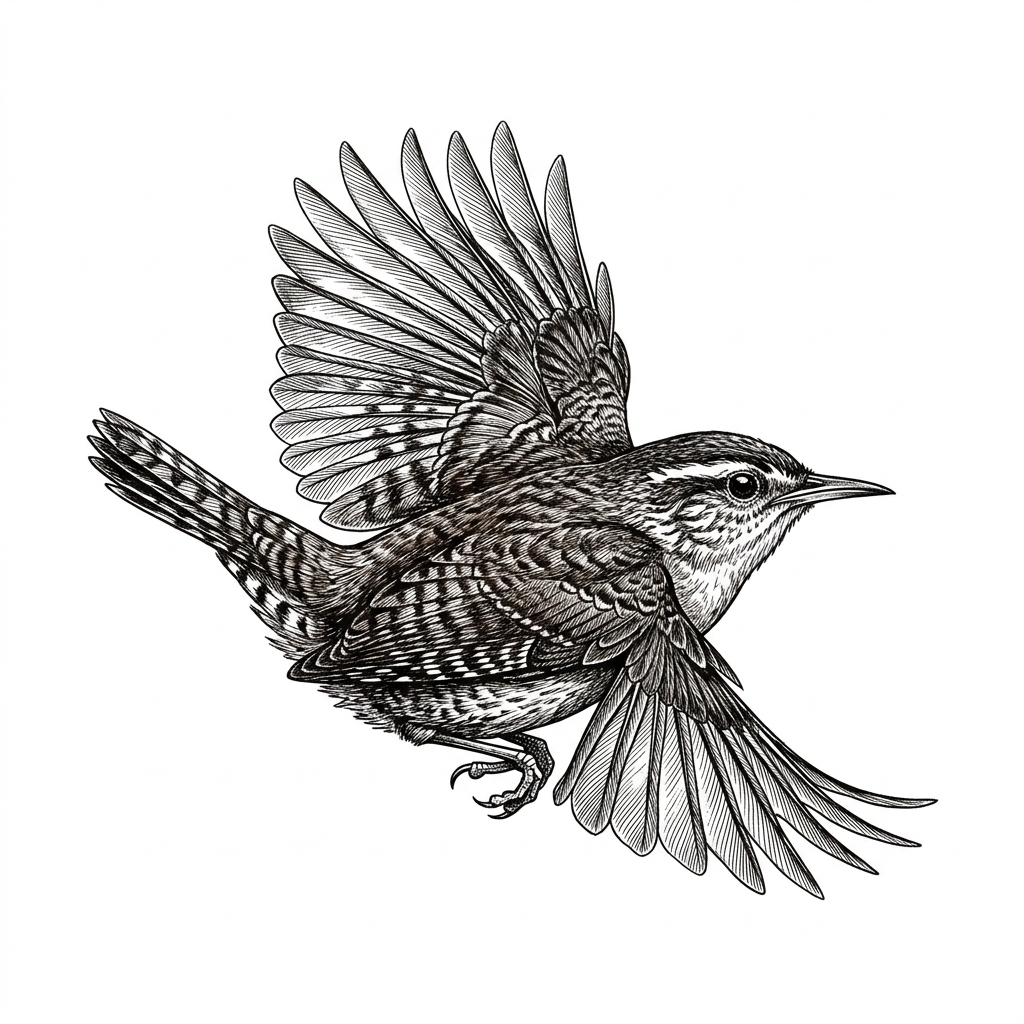
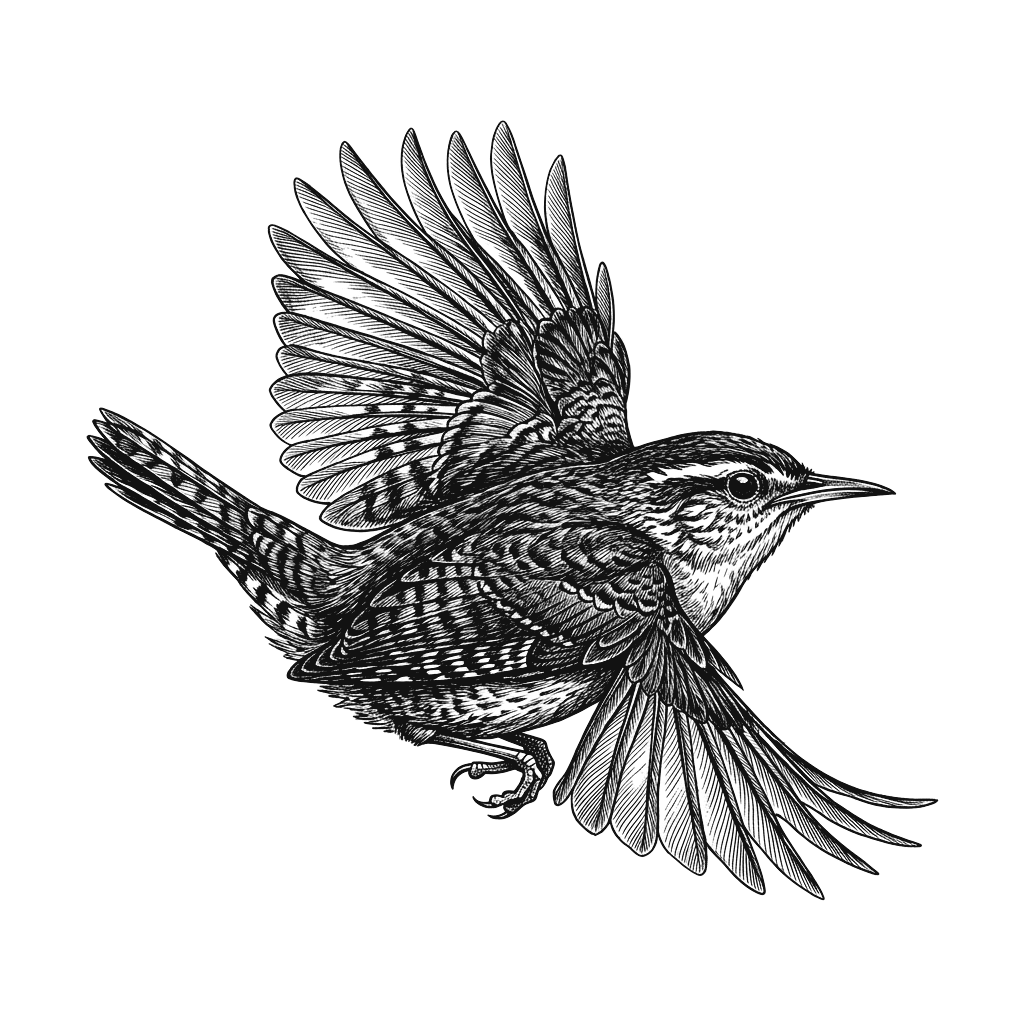
fix: make bird background 100% transparent so only the sketched bird appears

Changed region(s): [[0.0938, 0.125, 0.8438, 0.875]]

diff --git a/components/marketing/FlyingWren.tsx b/components/marketing/FlyingWren.tsx
@@ -168,7 +168,7 @@ export function FlyingWren() {
         }
       }
 
-      // Re-render position via state or direct DOM transform for max smoothness
+      // Direct DOM transform for 60fps performance
       const birdEl = document.getElementById("flying-wren-companion");
       if (birdEl) {
         birdEl.style.transform = `translate3d(${current.x}px, ${current.y}px, 0) scaleX(${current.scaleX}) rotate(${current.rotation}deg)`;
@@ -197,15 +197,14 @@ export function FlyingWren() {
         />
       ))}
 
-      {/* Main Flying / Perched Wren Bird Companion */}
+      {/* Main Flying / Perched Wren Bird Companion (Pure Bird Only with Zero Background) */}
       <div
         id="flying-wren-companion"
-        className="absolute top-0 left-0 will-change-transform"
+        className="absolute top-0 left-0 will-change-transform pointer-events-none"
         style={{
-          width: "56px",
-          height: "56px",
+          width: "52px",
+          height: "52px",
           transform: `translate3d(${birdPos.current.x}px, ${birdPos.current.y}px, 0)`,
-          transition: "filter 0.3s ease",
         }}
       >
         <div
@@ -213,12 +212,9 @@ export function FlyingWren() {
             isFlying ? "animate-wren-flight-bob" : "animate-wren-perch-breathe"
           }`}
         >
-          {/* Subtle Ambient Sunlight Aura */}
-          <div className="absolute inset-0 -m-2 rounded-full bg-amber-300/20 blur-md pointer-events-none" />
-
           {/* Flying Pose */}
           <div
-            className={`absolute inset-0 transition-opacity duration-200 ${
+            className={`absolute inset-0 transition-opacity duration-150 ${
               isFlying ? "opacity-100 scale-100" : "opacity-0 scale-95"
             }`}
           >
@@ -227,14 +223,14 @@ export function FlyingWren() {
               alt="Flying Wren Bird"
               fill
               priority
-              className="object-contain mix-blend-multiply drop-shadow-[0_4px_8px_rgba(14,165,233,0.3)] animate-wren-wing-flutter"
-              sizes="56px"
+              className="object-contain drop-shadow-[0_4px_6px_rgba(0,0,0,0.15)] animate-wren-wing-flutter"
+              sizes="52px"
             />
           </div>
 
-          {/* Perched Pose (Wings folded, relaxed head tilt) */}
+          {/* Perched Pose */}
           <div
-            className={`absolute inset-0 transition-opacity duration-200 ${
+            className={`absolute inset-0 transition-opacity duration-150 ${
               perched ? "opacity-100 scale-100" : "opacity-0 scale-95"
             }`}
           >
@@ -243,8 +239,8 @@ export function FlyingWren() {
               alt="Perched Wren Bird"
               fill
               priority
-              className="object-contain mix-blend-multiply drop-shadow-[0_3px_6px_rgba(0,0,0,0.18)]"
-              sizes="56px"
+              className="object-contain drop-shadow-[0_2px_4px_rgba(0,0,0,0.15)]"
+              sizes="52px"
             />
           </div>
         </div>
